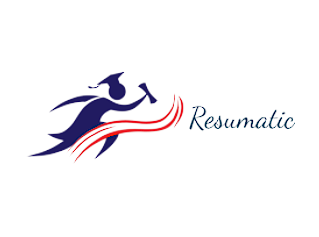
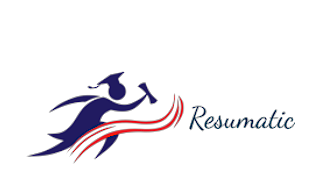
Home page

Changed region(s): [[0.0846, 0.3056, 0.931, 0.9167], [0.2821, 0.8611, 0.3103, 0.8889]]

diff --git a/style.css b/style.css
@@ -1,0 +1,108 @@
+*{
+    margin: 0px;
+  
+box-sizing: border-box;
+font-family: 'Segoe UI', Tahoma, Geneva, Verdana, sans-serif;
+}
+/* */
+.header{
+    padding:20px 100px;
+    position: fixed;
+    display: flex;
+    background-color: #669bbc; 
+    width: 100%;
+    justify-content: space-between;
+    align-items: center;
+}
+h2{
+    color:#1d3557;
+}
+.nav-contents {
+   margin-left: 20px;
+   color: #1d3557;
+   font-size: 15px;
+    text-decoration: none;
+    align-content: center;
+    font-weight:600;
+}
+
+
+.nav-button{
+ margin-left:20px;
+ width:100px;
+ height: 40px;
+ background:transparent;
+ border: 2px solid black;
+ outline:none;
+ cursor:pointer;
+ color:white;
+ font-size: 17px;
+ font-weight: 500;
+ border-radius: 5px;
+ transition: .5s;
+}
+
+.nav-button:hover{
+    background: #003049;
+    color:#ffffff;
+}
+
+/* .nav-contents::after{
+    content: '';
+    position:absolute;
+    bottom:25px;
+    
+    width:60px;
+    background: rgb(0, 0, 0);
+    height: 3px;
+    border-radius:5px;
+    transform:scalex(0);
+} 
+
+.nav-contents:hover::after{
+      transform:scalex(0);
+      
+
+*/
+/* Main*/
+.wrapper{
+    padding: 100px;
+}
+.logo-image {
+    display: block;
+    margin-left: auto;
+    margin-right: auto;
+    width: 40%;
+  }
+
+  .title-explain{
+    text-align: center;
+  }
+.detailed-explain{
+    width:1000px;
+    margin-left:50px;
+    margin-bottom:10px;
+    text-align:center;
+    font-size:15px;
+    font-weight:400;
+}
+.wrapper-button{
+    display:block;
+    margin-left: auto;
+    margin-right: auto;
+    padding:20px;
+    border-radius:20px;
+    background: transparent;
+    font-size:17px;
+    font-weight:500;
+    transition: .4s;
+}
+.wrapper-button:hover{
+    background: #e63946;
+}
+
+ .img-logo{
+    width:80px;
+    height:auto;
+    left:0;
+ } 

diff --git a/index.html b/index.html
@@ -1,0 +1,35 @@
+<!DOCTYPE html>
+<html lang="en">
+<head>
+    <meta charset="UTF-8">
+    <meta name="viewport" content="width=device-width, initial-scale=1.0">
+    <title>Resumatic</title>
+    <link rel="stylesheet" href="style.css">
+</head>
+<body>
+<div class="header">
+        <h2>Resumatic</h2>
+    <nav class="nav-block">
+        <!-- <a href=""class="nav-contents"><img src="images/resumatic - logo.png" alt="" class="img-logo" ></a> -->
+        <a href="" class="nav-contents">Home</a>
+        <a href="" class="nav-contents">Create</a>
+        <a href="" class="nav-contents">Resources</a>
+        <a href="" class="nav-contents">Templates</a>
+        <button class="nav-button">Login</button>
+    </nav>
+</div>
+
+
+<div class="wrapper">
+    <div class="box1">
+        <img src="images\resumatic.png" alt="" class="logo-image">
+        <h3 class="title-explain">A Quick and easy online Resume builder</h3>
+        <p class="detailed-explain">Resumatic, the innovative online resume builder, beckons you to simply share your qualifications and personal details. In response, it crafts your professional journey into the latest and 
+            most stylish resume templates, delivering an exceptional representation of your story.</p>
+            <button class="wrapper-button">Start Creating</button>
+        </div>
+    </div>
+</div>
+
+</body>
+</html>
